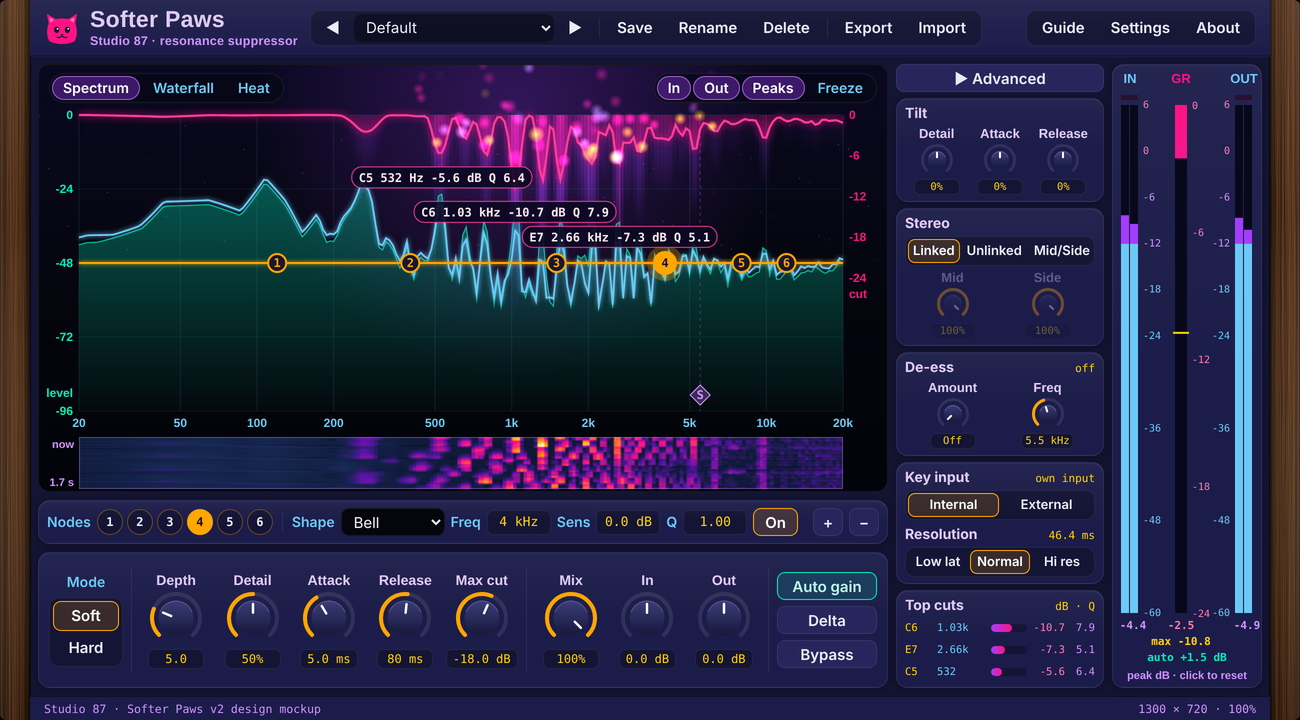
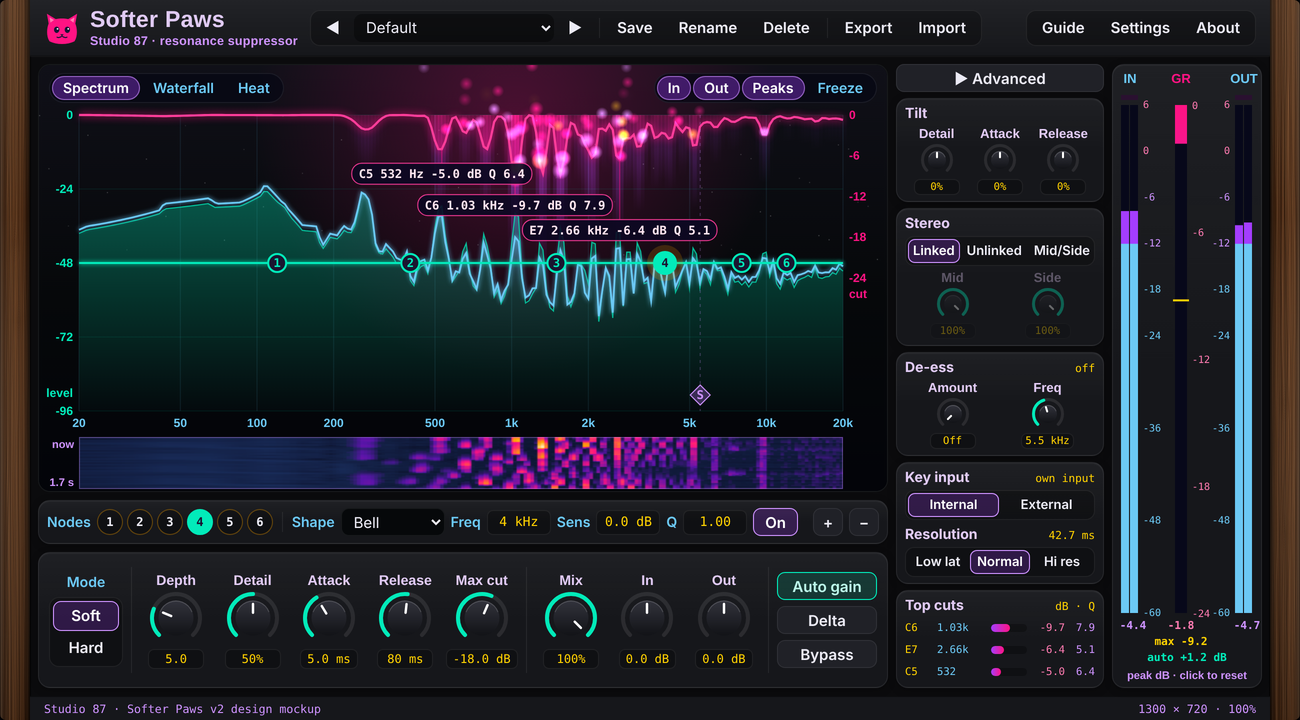
Mockup v2.1: Soda Pop default look with live theme switching, steadier auto gain, smoother detection, worklet loads from a data URL
Claude-Session: https://claude.ai/code/session_01S9jrKxbC7Wx3CXKZyGedSz

diff --git a/docs/mockup/index.html b/docs/mockup/index.html
@@ -13,9 +13,9 @@
    PICTURE: the big display, aurora of cuts, sparks, waterfall and heat views
    COLOUR and TYPE: Studio 87 looks A, B, C (Soda Pop accents), Barlow Condensed + JetBrains Mono
    LAYOUT: header, big display with its controls under it, side panel, meters far right */
-:root{--page:#141433;--panel:#1c1c4a;--sub:#26265c;--canvas:#05060d;--line:rgba(255,255,255,.07);--text:#ecebf5;--muted:#a8a4c8;--acc:#FFA600;--good:#02EBBA;--sky:#6CC9F5;--hot:#FF1383;--pur:#A43DFF;--lav:#CD92FE;--title:#E1CBF4;--yel:#FFD100;--selbg:rgba(255,166,0,.16);--selbd:#FFA600;--well:rgba(0,0,0,.28)}
-[data-look=b]{--page:#0b0b0d;--panel:#16171b;--sub:#202127;--canvas:#06080a;--acc:#02EBBA;--selbg:rgba(164,61,255,.22);--selbd:#CD92FE}
-[data-look=c]{--page:#101010;--panel:#1b1b1b;--sub:#262626;--canvas:#070707;--acc:#f2f2f2;--selbg:rgba(255,255,255,.12);--selbd:#fff;--title:#fff;--lav:#d8d8d8}
+:root{--dtop:#0a0820;--glow:164,61,255;--page:#141433;--panel:#1c1c4a;--sub:#26265c;--canvas:#05060d;--line:rgba(255,255,255,.07);--text:#ecebf5;--muted:#a8a4c8;--acc:#FFA600;--good:#02EBBA;--sky:#6CC9F5;--hot:#FF1383;--pur:#A43DFF;--lav:#CD92FE;--title:#E1CBF4;--yel:#FFD100;--selbg:rgba(255,166,0,.16);--selbd:#FFA600;--well:rgba(0,0,0,.28)}
+[data-look=b]{--dtop:#101018;--glow:255,19,131;--page:#0b0b0d;--panel:#16171b;--sub:#202127;--canvas:#06080a;--acc:#02EBBA;--selbg:rgba(164,61,255,.22);--selbd:#CD92FE}
+[data-look=c]{--dtop:#0c0c0c;--glow:255,255,255;--page:#101010;--panel:#1b1b1b;--sub:#262626;--canvas:#070707;--acc:#f2f2f2;--selbg:rgba(255,255,255,.12);--selbd:#fff;--title:#fff;--lav:#d8d8d8}
 *{box-sizing:border-box}
 html,body{margin:0;background:#07070f;color:var(--text);font-family:'Barlow Condensed',system-ui,sans-serif;-webkit-user-select:none;user-select:none}
 body{overflow:auto}
@@ -189,7 +189,7 @@ footer{height:24px;flex:none;display:flex;align-items:center;justify-content:spa
     </div>
     <div id="meters" class="card"><canvas id="mcv"></canvas></div>
    </main>
-   <footer><span>Studio 87 · Softer Paws v2 design mockup</span><span id="size">1300 × 720 · 100%</span></footer>
+   <footer><span>Studio 87 · Softer Paws v2.1 design mockup</span><span id="size">1300 × 720 · 100%</span></footer>
   </div>
   <div class="cheek r" data-tip="Wood cheek. Double click to reset the window to 100%."></div>
  </div>
@@ -234,13 +234,13 @@ class CalmEngine{
   this.fifo=[mk(),mk()];this.acc=[mk(),mk()];this.kfifo=mk();this.outQ=[new Float32Array(H),new Float32Array(H)];this.fill=0;
   this.re=[new Float64Array(N),new Float64Array(N)];this.im=[new Float64Array(N),new Float64Array(N)];this.kre=new Float64Array(N);this.kim=new Float64Array(N);
   const mkK=()=>new Float32Array(K);
-  this.d=[mkK(),mkK()];this.dl=mkK();this.kd=mkK();this.red=[mkK(),mkK()];this.ds=[mkK().fill(-140),mkK().fill(-140)];{const hs=H/this.sr;this.su=Math.exp(-hs/0.006);this.sd=Math.exp(-hs/0.045);}this.gf=[mkK(),mkK()];this.wt=mkK();this.aA=mkK();this.aR=mkK();this.hw=new Int32Array(K);this.tmp=new Float32Array(K);this.pre=new Float64Array(K+1);this.oct=mkK();
+  this.d=[mkK(),mkK()];this.dl=mkK();this.kd=mkK();this.red=[mkK(),mkK()];this.ds=[mkK().fill(-140),mkK().fill(-140)];{const hs=H/this.sr;this.su=Math.exp(-hs/0.015);this.sd=Math.exp(-hs/0.09);}this.gf=[mkK(),mkK()];this.wt=mkK();this.aA=mkK();this.aR=mkK();this.hw=new Int32Array(K);this.tmp=new Float32Array(K);this.pre=new Float64Array(K+1);this.oct=mkK();
   for(let k=0;k<K;k++){const f=Math.max(1,k*this.sr/N);this.oct[k]=Math.max(-5,Math.min(5,Math.log2(f/1000)));}
   this.rev=new Uint32Array(N);const bits=Math.log2(N);for(let i=0;i<N;i++){let r=0;for(let b=0;b<bits;b++)r|=((i>>b)&1)<<(bits-1-b);this.rev[i]=r;}
   this.cs=new Float64Array(N>>1);this.sn=new Float64Array(N>>1);for(let k=0;k<N>>1;k++){this.cs[k]=Math.cos(2*Math.PI*k/N);this.sn[k]=Math.sin(2*Math.PI*k/N);}
   this.bLo=new Float32Array(this.B);this.bHi=new Float32Array(this.B);
   for(let b=0;b<this.B;b++){const f0=20*Math.pow(1000,(b-0.5)/(this.B-1)),f1=20*Math.pow(1000,(b+0.5)/(this.B-1));this.bLo[b]=f0*N/this.sr;this.bHi[b]=f1*N/this.sr;}
-  this.dsw=new Float32Array(K);{const hs=H/this.sr;this.mkC=Math.exp(-hs/0.01);this.mkD=Math.exp(-hs/0.005);this.dsR=Math.exp(-hs/0.06);}
+  this.dsw=new Float32Array(K);this.kwt=new Float32Array(K);for(let k=0;k<K;k++){const f=Math.max(1,k*this.sr/N),h=Math.pow(f/100,4);const sh=1/(1+Math.exp(-Math.log2(f/1500)*3));this.kwt[k]=h/(1+h)*(1+1.512*sh);}{const hs=H/this.sr;this.mkC=Math.exp(-hs/0.01);this.mkD=Math.exp(-hs/0.005);this.dsR=Math.exp(-hs/0.06);}
   this.updW();this.updT();this.updD();this.updDS();
  }
  updDS(){const N=this.N,sr=this.sr,K=this.K,fL=this.p.dsFreq;for(let k=0;k<K;k++){const f=Math.max(1,k*sr/N);let t=Math.log2(f/fL)*2+1;t=t<0?0:t>1?1:t;this.dsw[k]=t*t*(3-2*t);}
@@ -305,9 +305,9 @@ class CalmEngine{
    const amt=p.stereo===2?(l?p.sideAmt:p.midAmt)/100:1;
    for(let k=0;k<K;k++){const r0=red[k>0?k-1:0],r2=red[k<K-1?k+1:K-1];const gr=(0.25*r0+0.5*red[k]+0.25*r2)*amt+ds*dsw[k];
     const g=Math.exp(-gr*0.1151292546);const gm=byp?1:del?mix*(1-g):1-mix+mix*g;gf[k]=gm;
-    const P=re[k]*re[k]+im[k]*im[k];Ein+=P;Eo+=P*gm*gm;
+    const P=(re[k]*re[k]+im[k]*im[k])*this.kwt[k];Ein+=P;Eo+=P*gm*gm;
     const pw=Math.pow(10,d[k]/10);ge+=pw*gr;pe+=pw;if(gr>gmax)gmax=gr;}}
-  /* auto gain: keep the loudness of the processed sound equal to the input, follows within about 10 ms */
+  /* auto gain: keep the loudness of the processed sound equal to the input (energy weighted like the ear: little bass, a bit more presence), follows within about 10 ms */
   if(p.autoGain&&!byp&&!del){if(10*Math.log10(Ein*sc2+1e-30)>-75){let t=10*Math.log10(Ein/(Eo+1e-30));t=t<0?0:t>12?12:t;this.mkDb+=(t-this.mkDb)*(1-(t>this.mkDb?this.mkC:this.mkD));}}
   else this.mkDb+=(0-this.mkDb)*(1-this.mkC);
   const mkL=Math.pow(10,this.mkDb/20);
@@ -388,9 +388,9 @@ const P={};for(const k in PD)if(!k.startsWith('n'))P[k]=PD[k].def;
 Object.assign(P,{mode:0,stereo:0,key:0,res:1,delta:0,bypass:0,freeze:0,autoGain:1});
 const defNodes=()=>[{type:1,f:120,g:0,q:1,on:1},{type:0,f:400,g:0,q:1,on:1},{type:0,f:1500,g:0,q:1,on:1},{type:0,f:4000,g:0,q:1,on:1},{type:0,f:8000,g:0,q:1,on:1},{type:2,f:12000,g:0,q:1,on:1}];
 let nodes=defNodes(),sel=3;
-const S={tips:true,look:'a',vis:1,power:0,view:0,showIn:1,showOut:1,peaks:1};
-try{Object.assign(S,JSON.parse(localStorage.getItem('softerpaws.settings')||'{}'));}catch(e){}
-const saveS=()=>{try{localStorage.setItem('softerpaws.settings',JSON.stringify(S));}catch(e){}};
+const S={tips:true,look:'b',vis:1,power:0,view:0,showIn:1,showOut:1,peaks:1};
+try{Object.assign(S,JSON.parse(localStorage.getItem('softerpaws.settings.v2')||'{}'));}catch(e){}
+const saveS=()=>{try{localStorage.setItem('softerpaws.settings.v2',JSON.stringify(S));}catch(e){}};
 
 /* ---------- presets ---------- */
 const mkP=(o,nm)=>({p:Object.assign({mode:0,depth:5,detail:50,attack:5,release:80,maxcut:18,mix:100,delta:0,bypass:0,tiltDetail:0,tiltAttack:0,tiltRelease:0,stereo:0,midAmt:100,sideAmt:100,key:0,res:1,inGain:0,outTrim:0,autoGain:1,dsAmt:0,dsFreq:5500},o),n:nm||defNodes()});
@@ -418,15 +418,17 @@ function loadPreset(key){const isU=key.startsWith('u:'),nm=key.slice(2),pr=isU?U
 const snap=()=>({p:Object.fromEntries(Object.entries(P).filter(([k])=>k!=='freeze')),n:nodes.map(o=>({...o}))});
 
 /* ---------- engine link ---------- */
-let ac=null,send=()=>{},running=false,playing=false;
+let ac=null,send=()=>{},running=false,playing=false,engMode='';
 function sendAll(){send({t:'all',p:{...P},nodes:nodes.map(o=>({...o}))});}
 const sendNodes=()=>send({t:'nodes',nodes:nodes.map(o=>({...o}))});
 async function initAudio(){if(ac)return;ac=new (window.AudioContext||window.webkitAudioContext)({latencyHint:'interactive'});
  try{const code=CalmEngine.toString()+"\nclass CalmProc extends AudioWorkletProcessor{constructor(){super();this.e=new CalmEngine(sampleRate);this.e.post=d=>this.port.postMessage(d);this.port.onmessage=m=>this.e.msg(m.data);}process(i,o){const out=o[0];this.e.process(out[0],out[1]||out[0],out[0].length);return true;}}\nregisterProcessor('calm-proc',CalmProc);";
-  const url=URL.createObjectURL(new Blob([code],{type:'application/javascript'}));await ac.audioWorklet.addModule(url);
-  const nd=new AudioWorkletNode(ac,'calm-proc',{numberOfInputs:0,numberOfOutputs:1,outputChannelCount:[2]});nd.port.onmessage=m=>onEng(m.data);send=d=>nd.port.postMessage(d);nd.connect(ac.destination);}
- catch(err){const eng=new CalmEngine(ac.sampleRate);eng.post=d=>onEng(d);const sp=ac.createScriptProcessor(1024,1,2);sp.onaudioprocess=e=>{const b=e.outputBuffer;eng.process(b.getChannelData(0),b.getChannelData(1),b.length);};sp.connect(ac.destination);send=d=>eng.msg(d);}
- running=true;sendAll();setSource($('#src').value);setKey($('#ksrc').value);}
+  let loaded=false;for(const url of ['data:application/javascript;charset=utf-8,'+encodeURIComponent(code),URL.createObjectURL(new Blob([code],{type:'application/javascript'}))]){try{await ac.audioWorklet.addModule(url);loaded=true;break;}catch(e){}}
+  if(!loaded)throw new Error('worklet');
+  const nd=new AudioWorkletNode(ac,'calm-proc',{numberOfInputs:0,numberOfOutputs:1,outputChannelCount:[2]});nd.port.onmessage=m=>onEng(m.data);send=d=>nd.port.postMessage(d);nd.connect(ac.destination);engMode='worklet';}
+ catch(err){const eng=new CalmEngine(ac.sampleRate);eng.post=d=>onEng(d);engMode='fallback';const sp=ac.createScriptProcessor(4096,1,2);sp.onaudioprocess=e=>{const b=e.outputBuffer;eng.process(b.getChannelData(0),b.getChannelData(1),b.length);};sp.connect(ac.destination);send=d=>eng.msg(d);}
+ running=true;sendAll();setSource($('#src').value);setKey($('#ksrc').value);
+ $('#rigmsg').textContent=engMode==='worklet'?'Audio engine: smooth (own audio thread)':'Audio engine: fallback on the page thread, may stutter in this browser';}
 
 /* ---------- test sounds ---------- */
 const cache={};
@@ -474,7 +476,7 @@ function buildKnobs(){for(const el of $$('.kn')){const id=el.dataset.k,d=PD[id];
  el.addEventListener('dblclick',()=>{setV(id,d.def);});
  el.addEventListener('wheel',e=>{e.preventDefault();setV(id,fromN(d,toN(d,getV(id))-Math.sign(e.deltaY)*(e.shiftKey?0.005:0.025)));},{passive:false});
  drawKnob(id);}}
-let CSSV={};const readVars=()=>{const cs=getComputedStyle(document.documentElement);for(const k of ['acc','good','sky','hot','pur','lav','title','yel','canvas','text','panel','sub'])CSSV[k]=cs.getPropertyValue('--'+k).trim();};
+let CSSV={};const readVars=()=>{const cs=getComputedStyle(document.documentElement);for(const k of ['acc','good','sky','hot','pur','lav','title','yel','canvas','text','panel','sub','dtop','glow'])CSSV[k]=cs.getPropertyValue('--'+k).trim();};
 const knobBody=()=>S.look==='c'?['#3d3d3d','#151515']:S.look==='b'?['#32333c','#121317']:['#3b3d78','#17183a'];
 function drawKnob(id){const k=knobs[id];if(!k)return;const d=PD[id],v=getV(id);k.kv.textContent=d.f(v);if(!k.cv)return;
  const res=Math.max(2,Math.ceil((window.devicePixelRatio||1)*scale)),px=k.sz*res;if(k.cv.width!==px){k.cv.width=px;k.cv.height=px;}
@@ -563,11 +565,13 @@ $('#bguide').onclick=()=>dlg('Guide',`<p>Softer Paws listens for sharp, ringing 
 <p>Display: mint is the input, sky is the output, pink is the reduction (scale on the right). Sparks fly where it cuts hardest.</p>
 <p class="k">Space play/stop · A auto gain · D delta · B bypass · F freeze · 1 2 3 views · Shift drag fine · double click default · wheel on a node changes Q · Alt click a node turns it off</p>`,[['Close']]);
 $('#bset').onclick=()=>dlg('Settings',`<p><label><input type="checkbox" id="stip" ${S.tips?'checked':''}> Info bubbles after hovering about one second</label></p>
-<p>Look <select class="sel" id="slook"><option value="a">A · Neon Navy</option><option value="b">B · Purple Soda Pop</option><option value="c">C · PurrOne</option></select></p>
+<p>Look <select class="sel" id="slook"><option value="b">Soda Pop (default)</option><option value="a">Neon Navy</option><option value="c">PurrOne</option></select></p>
 <p>Visuals <select class="sel" id="svis"><option value="0">Calm (no sparks)</option><option value="1">Pretty</option><option value="2">Max sparkle</option></select></p>
 <p><label><input type="checkbox" id="spow" ${S.power?'checked':''}> Power saving (30 frames per second)</label></p>
-<p style="color:#a8a4c8;font-size:14px">Drawing pauses when the window is hidden. Audio keeps running.</p>`,[['Done',()=>{S.tips=$('#stip').checked;S.look=$('#slook').value;S.vis=+$('#svis').value;S.power=$('#spow').checked?1:0;saveS();applyLook();}]]);
-$('#bset').addEventListener('click',()=>{setTimeout(()=>{$('#slook').value=S.look;$('#svis').value=S.vis;},0);});
+<p style="color:var(--muted);font-size:14px">Changes show right away. Drawing pauses when the window is hidden; audio keeps running.</p>`,[['Done',()=>{S.tips=$('#stip').checked;S.look=$('#slook').value;S.vis=+$('#svis').value;S.power=$('#spow').checked?1:0;saveS();applyLook();}]]);
+$('#bset').addEventListener('click',()=>{setTimeout(()=>{$('#slook').value=S.look;$('#svis').value=S.vis;
+  $('#slook').onchange=e=>{S.look=e.target.value;saveS();applyLook();};$('#svis').onchange=e=>{S.vis=+e.target.value;saveS();};
+  $('#stip').onchange=e=>{S.tips=e.target.checked;saveS();};$('#spow').onchange=e=>{S.power=e.target.checked?1:0;saveS();};},0);});
 $('#babout').onclick=()=>dlg('About & Support',`<p><b>Softer Paws</b> v1 design mockup · Studio 87</p><p>A dynamic resonance suppressor. Free and open source under AGPL-3.0-or-later. It collects nothing and makes no network calls.</p>
 <p>Presets are saved in your user data folder (Studio 87/Softer Paws/presets). The installer comes with an uninstaller that removes everything except your presets, unless you choose to delete them.</p>
 <p>If you like it, you can support the work on Ko-fi:</p><p><a href="https://ko-fi.com/studio87" style="color:#6CC9F5">ko-fi.com/studio87</a></p>`,[['Close']]);
@@ -612,9 +616,9 @@ function draw(now){requestAnimationFrame(draw);if(document.hidden)return;if(S.po
  if(!live){for(let b=0;b<B;b++){sIn[b]=Math.max(-120,sIn[b]-1.2);sOut[b]=Math.max(-120,sOut[b]-1.2);sRed[b]*=0.92;}}
  $('#hint').style.display=playing||live?'none':'block';
  /* background */
- const bg=c.createLinearGradient(0,0,0,Hh);bg.addColorStop(0,'#0a0820');bg.addColorStop(0.55,CSSV.canvas||'#05060d');bg.addColorStop(1,'#030409');c.fillStyle=bg;c.fillRect(0,0,W,Hh);
+ const bg=c.createLinearGradient(0,0,0,Hh);bg.addColorStop(0,CSSV.dtop||'#0a0820');bg.addColorStop(0.55,CSSV.canvas||'#05060d');bg.addColorStop(1,'#030409');c.fillStyle=bg;c.fillRect(0,0,W,Hh);
  let mb=0,mr=0;for(let b=0;b<B;b++)if(sRed[b]>mr){mr=sRed[b];mb=b;}
- if(mr>0.5){const gx=Xb(mb),gl=c.createRadialGradient(gx,PT,4,gx,PT,260);gl.addColorStop(0,`rgba(164,61,255,${Math.min(0.35,mr/40)})`);gl.addColorStop(1,'rgba(164,61,255,0)');c.fillStyle=gl;c.fillRect(0,0,W,Hh);}
+ if(mr>0.5){const gx=Xb(mb),gl=c.createRadialGradient(gx,PT,4,gx,PT,260);gl.addColorStop(0,`rgba(${CSSV.glow},${Math.min(0.3,mr/40)})`);gl.addColorStop(1,`rgba(${CSSV.glow},0)`);c.fillStyle=gl;c.fillRect(0,0,W,Hh);}
  const breath=0.5+0.5*Math.sin((now-t0)/1600);
  /* stars */ c.fillStyle='#ffffff';for(let i=0;i<60;i++){const sx=(i*977%1000)/1000*W,sy=PT+((i*613%1000)/1000)*(PB-PT)*0.5;c.globalAlpha=0.08+0.12*Math.abs(Math.sin(now/1300+i));c.fillRect(sx,sy,1.2,1.2);}c.globalAlpha=1;
  /* grid */
@@ -753,7 +757,7 @@ function refreshAll(){for(const id in knobs)drawKnob(id);for(const id in CH)draw
 readVars();applyLook();buildKnobs();buildChoices();fillPresets();fit();scale=base;applyScale();refreshAll();
 if(document.fonts&&document.fonts.ready)document.fonts.ready.then(()=>{for(const id in knobs)drawKnob(id);});
 requestAnimationFrame(draw);
-window.__calm={P,nodes:()=>nodes,S,onEng};
+window.__calm={P,nodes:()=>nodes,S,onEng,mode:()=>engMode};
 }
 </script>
 </body></html>
